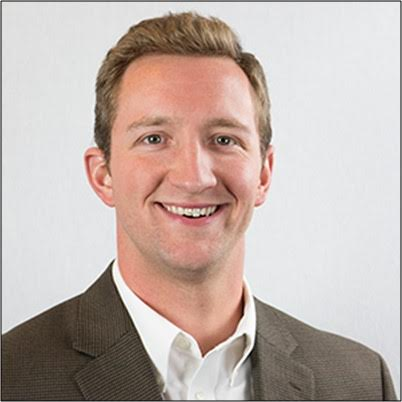
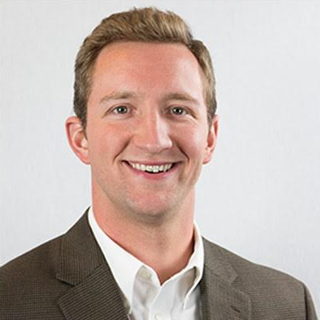
Tinkering
-removed unused pics from img folder
-resized pics for "About Us" page
-tinkering with placements of Subheadings on About Us page. Trying to
create a table so that the names are aligned with the pics

diff --git a/about.html b/about.html
@@ -92,7 +92,7 @@
                     <img class="img-responsive img-border-left" src="img/john2.jpg" alt="">
                 </div>
                 <div class="col-md-8">
-                    <p>Dr. John Sakaluk is a social psychologist and postdoctoral fellow of the Social Science and Humanities Research Council, who works in the Department of Psychology at the University of Toronto Mississauga. John has published numerous articles in peer-reviewed journals on the topics of close relationships, sexuality, and methodology. <br><br>
+                    <p><br><br>Dr. John Sakaluk is a social psychologist and postdoctoral fellow of the Social Science and Humanities Research Council, who works in the Department of Psychology at the University of Toronto Mississauga. John has published numerous articles in peer-reviewed journals on the topics of close relationships, sexuality, and methodology. <br><br>
                     When John isn’t scheming up interesting ideas for psychological research, he can be found cooking up a storm for his friends, watching the Toronto Raptors and University of Kansas Basketball, or playing in his trampoline-dodgeball league. <br><br>
                     You can learn more about John's research <a href= "http://johnsakaluk.com/">here</a>.</p>
                 </div>
@@ -105,7 +105,7 @@
                     <img class="img-responsive img-border-left" src="img/emily.jpg" alt="">
                 </div>
                 <div class="col-md-8">
-                    <p>Dr. Emily Impett is a social psychologist and associate professor who works in the Department of Psychology at the University of Toronto Mississauga. Emily has published more than 60 peer-reviewed journal articles and book chapters, and has amassed more than $1,000,000 in research funding over her career. <br><br>
+                    <p><br><br>Dr. Emily Impett is a social psychologist and associate professor who works in the Department of Psychology at the University of Toronto Mississauga. Emily has published more than 60 peer-reviewed journal articles and book chapters, and has amassed more than $1,000,000 in research funding over her career. <br><br>
                     When Emily isn’t leading her Relationships and Wellbeing Lab to scholarly glory, she can be found enjoying the company of her family: her husband Ruslan, her sons Dima and Niko, and the newest addition to their family, a baby girl name Lila. <br><br>
                     You can learn more about Emily's research <a href="http://www.impettrelationshipslab.com/">here</a>.</p>
                 </div>
@@ -141,6 +141,24 @@
                         <div><small>Local Research Team</small></div>
                     </h3>
                 </div>
+        <div class="row">
+          <div class="col-sm-4 text-center">
+              <h3>Dr. E. Keith Bowers
+                  <div><small>Bioacoustics Expert</small></div>
+              </h3>
+          </div>
+          <div class="col-sm-4 text-center">
+             <h3>Andrew Laughton, B.A.
+                 <div><small>Lead Research Assistant</small></div>
+             </h3>
+          </div>
+          <div class="col-sm-4 text-center">
+             <h3>Relationships and Wellbeing (RAW) Lab
+                 <div><small>Local Research Team</small></div>
+             </h3>
+          </div>
+        </div> <!--end second row-->
+
                 <div class="clearfix"></div>
             </div>
         </div>

diff --git a/index.html b/index.html
@@ -46,7 +46,7 @@
     <div class="brand"></div>
 
     <!-- Navigation -->
-    <nav class="navbar navbar-default" role="navigation">
+    <nav class="navbar navbar navbar-default bg-inverse" role="navigation"> 
         <div class="container">
             <div class="row">
                 <div class="col-lg-12 text-center">
@@ -104,7 +104,7 @@
           <div class="row">  <!--the white box under the carousel and text-->
             <div class="box">
                 <div class="col-lg-12">
-                  <div class="col-lg-8"> <!--change size of carousel-->
+                  <div class="col-lg-7"> <!--change size of carousel-->
 
                     <div id="carousel-example-generic" class="carousel slide" >
                         <!-- Indicators -->
@@ -117,10 +117,10 @@
                         <!-- Wrapper for slides -->
                         <div class="carousel-inner">
                             <div class="item active">
-                                <img class="img-responsive img-full" src="img/couple1.jpg" alt="">
+                                <img class="img-responsive img-full" src="img/couple1b.jpg" alt="">
                             </div>
                             <div class="item">
-                                <img class="img-responsive img-full" src="img/couple2.jpg" alt="">
+                                <img class="img-responsive img-full" src="img/couple2b.jpg" alt="">
                             </div>
                             <div class="item">
                                 <img class="img-responsive img-full" src="img/couple3.jpg" alt="">

diff --git a/css/business-casual.css b/css/business-casual.css
@@ -19,9 +19,7 @@ body {
 }
 
 
-h1, {
-    font-size: 3em;
-}
+
 
 h6 {
     text-transform: uppercase;
@@ -45,12 +43,20 @@ h4 {
     font-size: 1.5em;
 }
 
-h3 {
+h3 {  <!--the cool headings/titles introducing each page-->
     text-transform: uppercase;
     font-family: "Josefin Slab","Helvetica Neue",Helvetica,Arial,sans-serif;
     font-weight: 700;
     letter-spacing: 1px;
     font-size: 2em;
+}
+
+.subheading { <!--smaller version of h3; use this for sub headings like RA names-->
+  text-transform: uppercase;
+  font-family: "Josefin Slab","Helvetica Neue",Helvetica,Arial,sans-serif;
+  font-weight: 700;
+  letter-spacing: 1px;
+  font-size: 0.5em;
 }
 
 h5 {
@@ -68,8 +74,9 @@ li {
     text-align: left;
 }
 
+
 .bullets {
-    font-size: 1.2em;
+    font-size: 1em;
     line-height: 1.5;
 }
 
@@ -100,6 +107,7 @@ hr {
 }
 
 .navbar-nav{
+    padding-top: 20px;
     text-transform: uppercase;
     font-weight: 400;
     letter-spacing: 3px;
@@ -257,10 +265,10 @@ footer p {
 }
 
 #accordion .panel-title a {
-    font-size: 1.3em;
-    line-height: 1.25;
-    font-weight: 500;
-    letter-spacing: -3;
+    font-size: 1.2em;
+    line-height: 1.2;
+    font-weight: 600;
+    letter-spacing: -5;
 }
 
 #main-content {

diff --git a/participate.html b/participate.html
@@ -96,10 +96,7 @@
                   <li class= "bullets">You and your partner <u>consider your sex-life to be “regular”</u></li>
                   </ul>
                   </p>
-
-                  <p><br>If that sounds like you and your partner, email us at Sounds.Of.Satisfaction.Study@gmail.com, and our research team will coordinate to enroll you and your partner in the study.</p>
-                  <p></p>
-
+                  <p><br>If that sounds like you and your partner, email us at <b>Sounds.Of.Satisfaction.Study@gmail.com</b>, and our research team will coordinate to enroll you and your partner in the study.</p>
                   <p><br>From there, a snapshot of the process of participation looks like this: <br></p>
 
 

diff --git a/css/bootstrap.css b/css/bootstrap.css
@@ -5476,7 +5476,7 @@ button.list-group-item-danger.active:focus {
 .panel-title {
   margin-top: 0;
   margin-bottom: 0;
-  font-size: 2em;
+  font-size: 1em;
   color: inherit;
 }
 .panel-title > a,
@@ -5689,12 +5689,16 @@ button.list-group-item-danger.active:focus {
   border-bottom: 1px solid #ddd;
 }
 .panel-default {
-  border-color: #ddd;
+  border: 4px #ddd;
+  border-radius:20;
+  width: 70%;
+
 }
 .panel-default > .panel-heading {
   color: #333;
   background-color: #f5f5f5;
   border-color: #ddd;
+  letter-spacing: -5;
 }
 .panel-default > .panel-heading + .panel-collapse > .panel-body {
   border-top-color: #ddd;

diff --git a/FAQ.html b/FAQ.html
@@ -86,8 +86,9 @@
                     </h2>
                     <hr>
                 </div>
+              </div>
 
-                <div class="col-lg-12 text-center">
+                <div class= "text-center">
                     <div class="panel-group" id="accordion">
 
                       <!--Q1 Start-->
@@ -287,7 +288,6 @@
 
 
    </div>
-  </div>
 
 </div>
 
